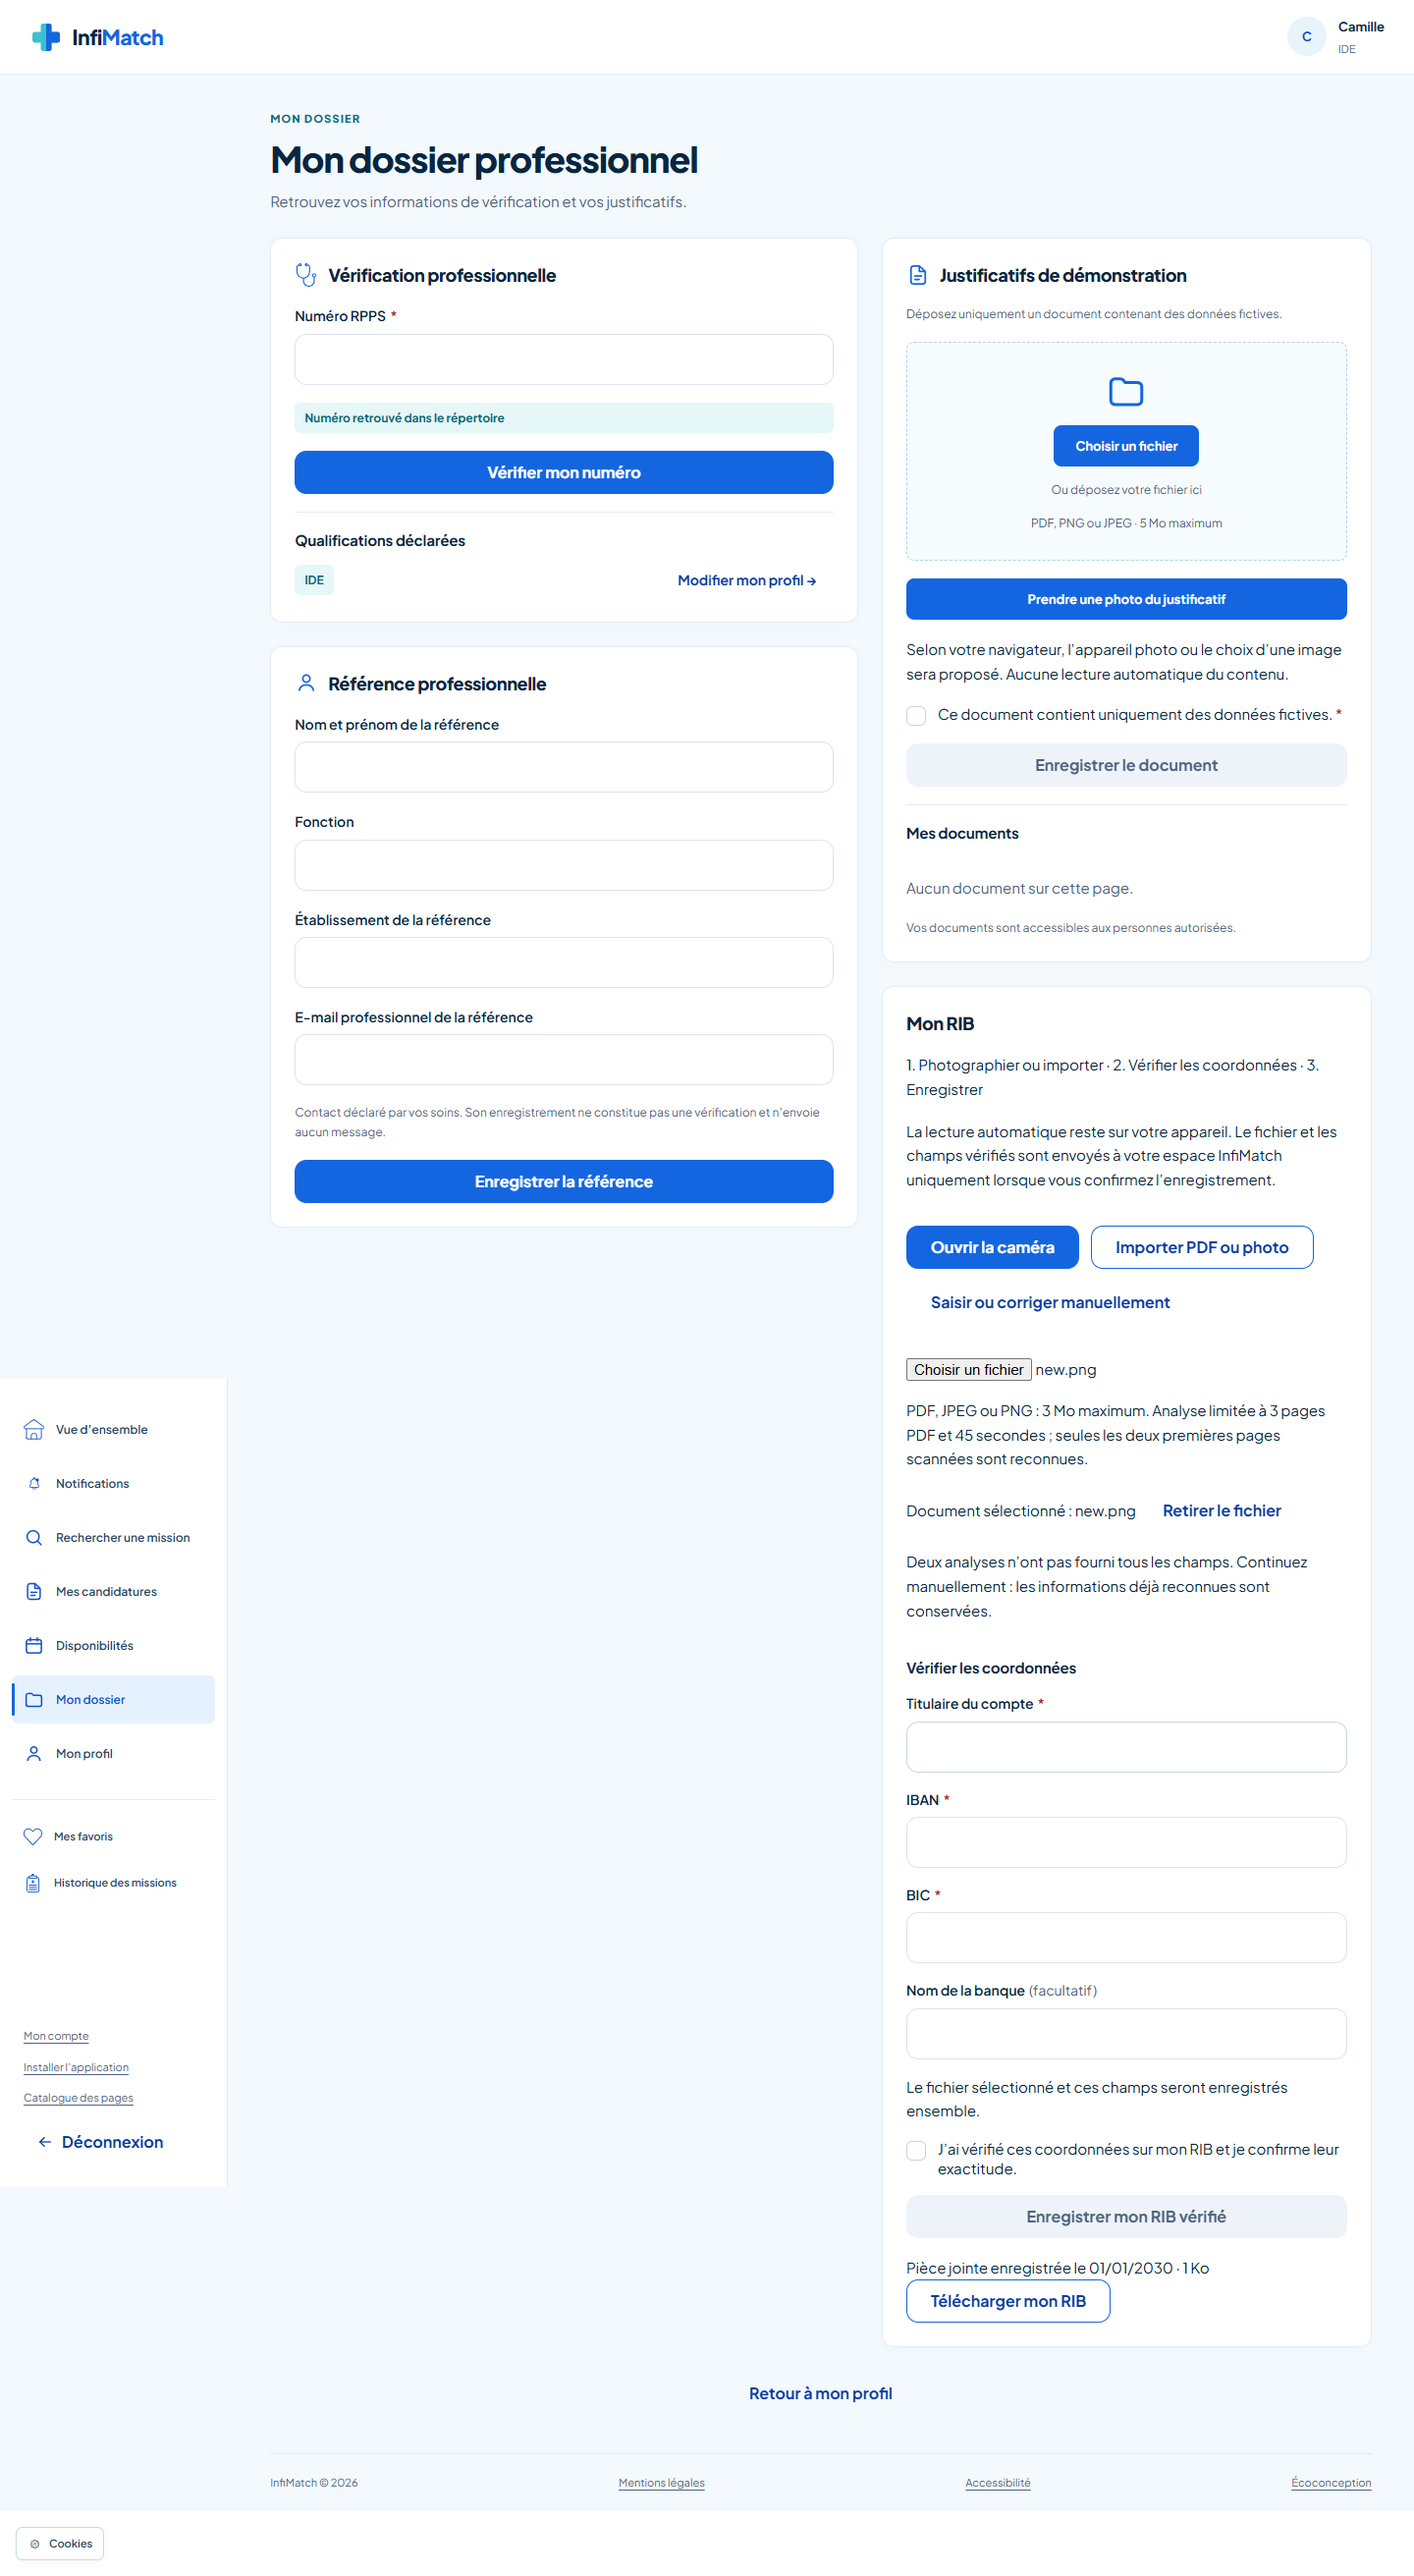
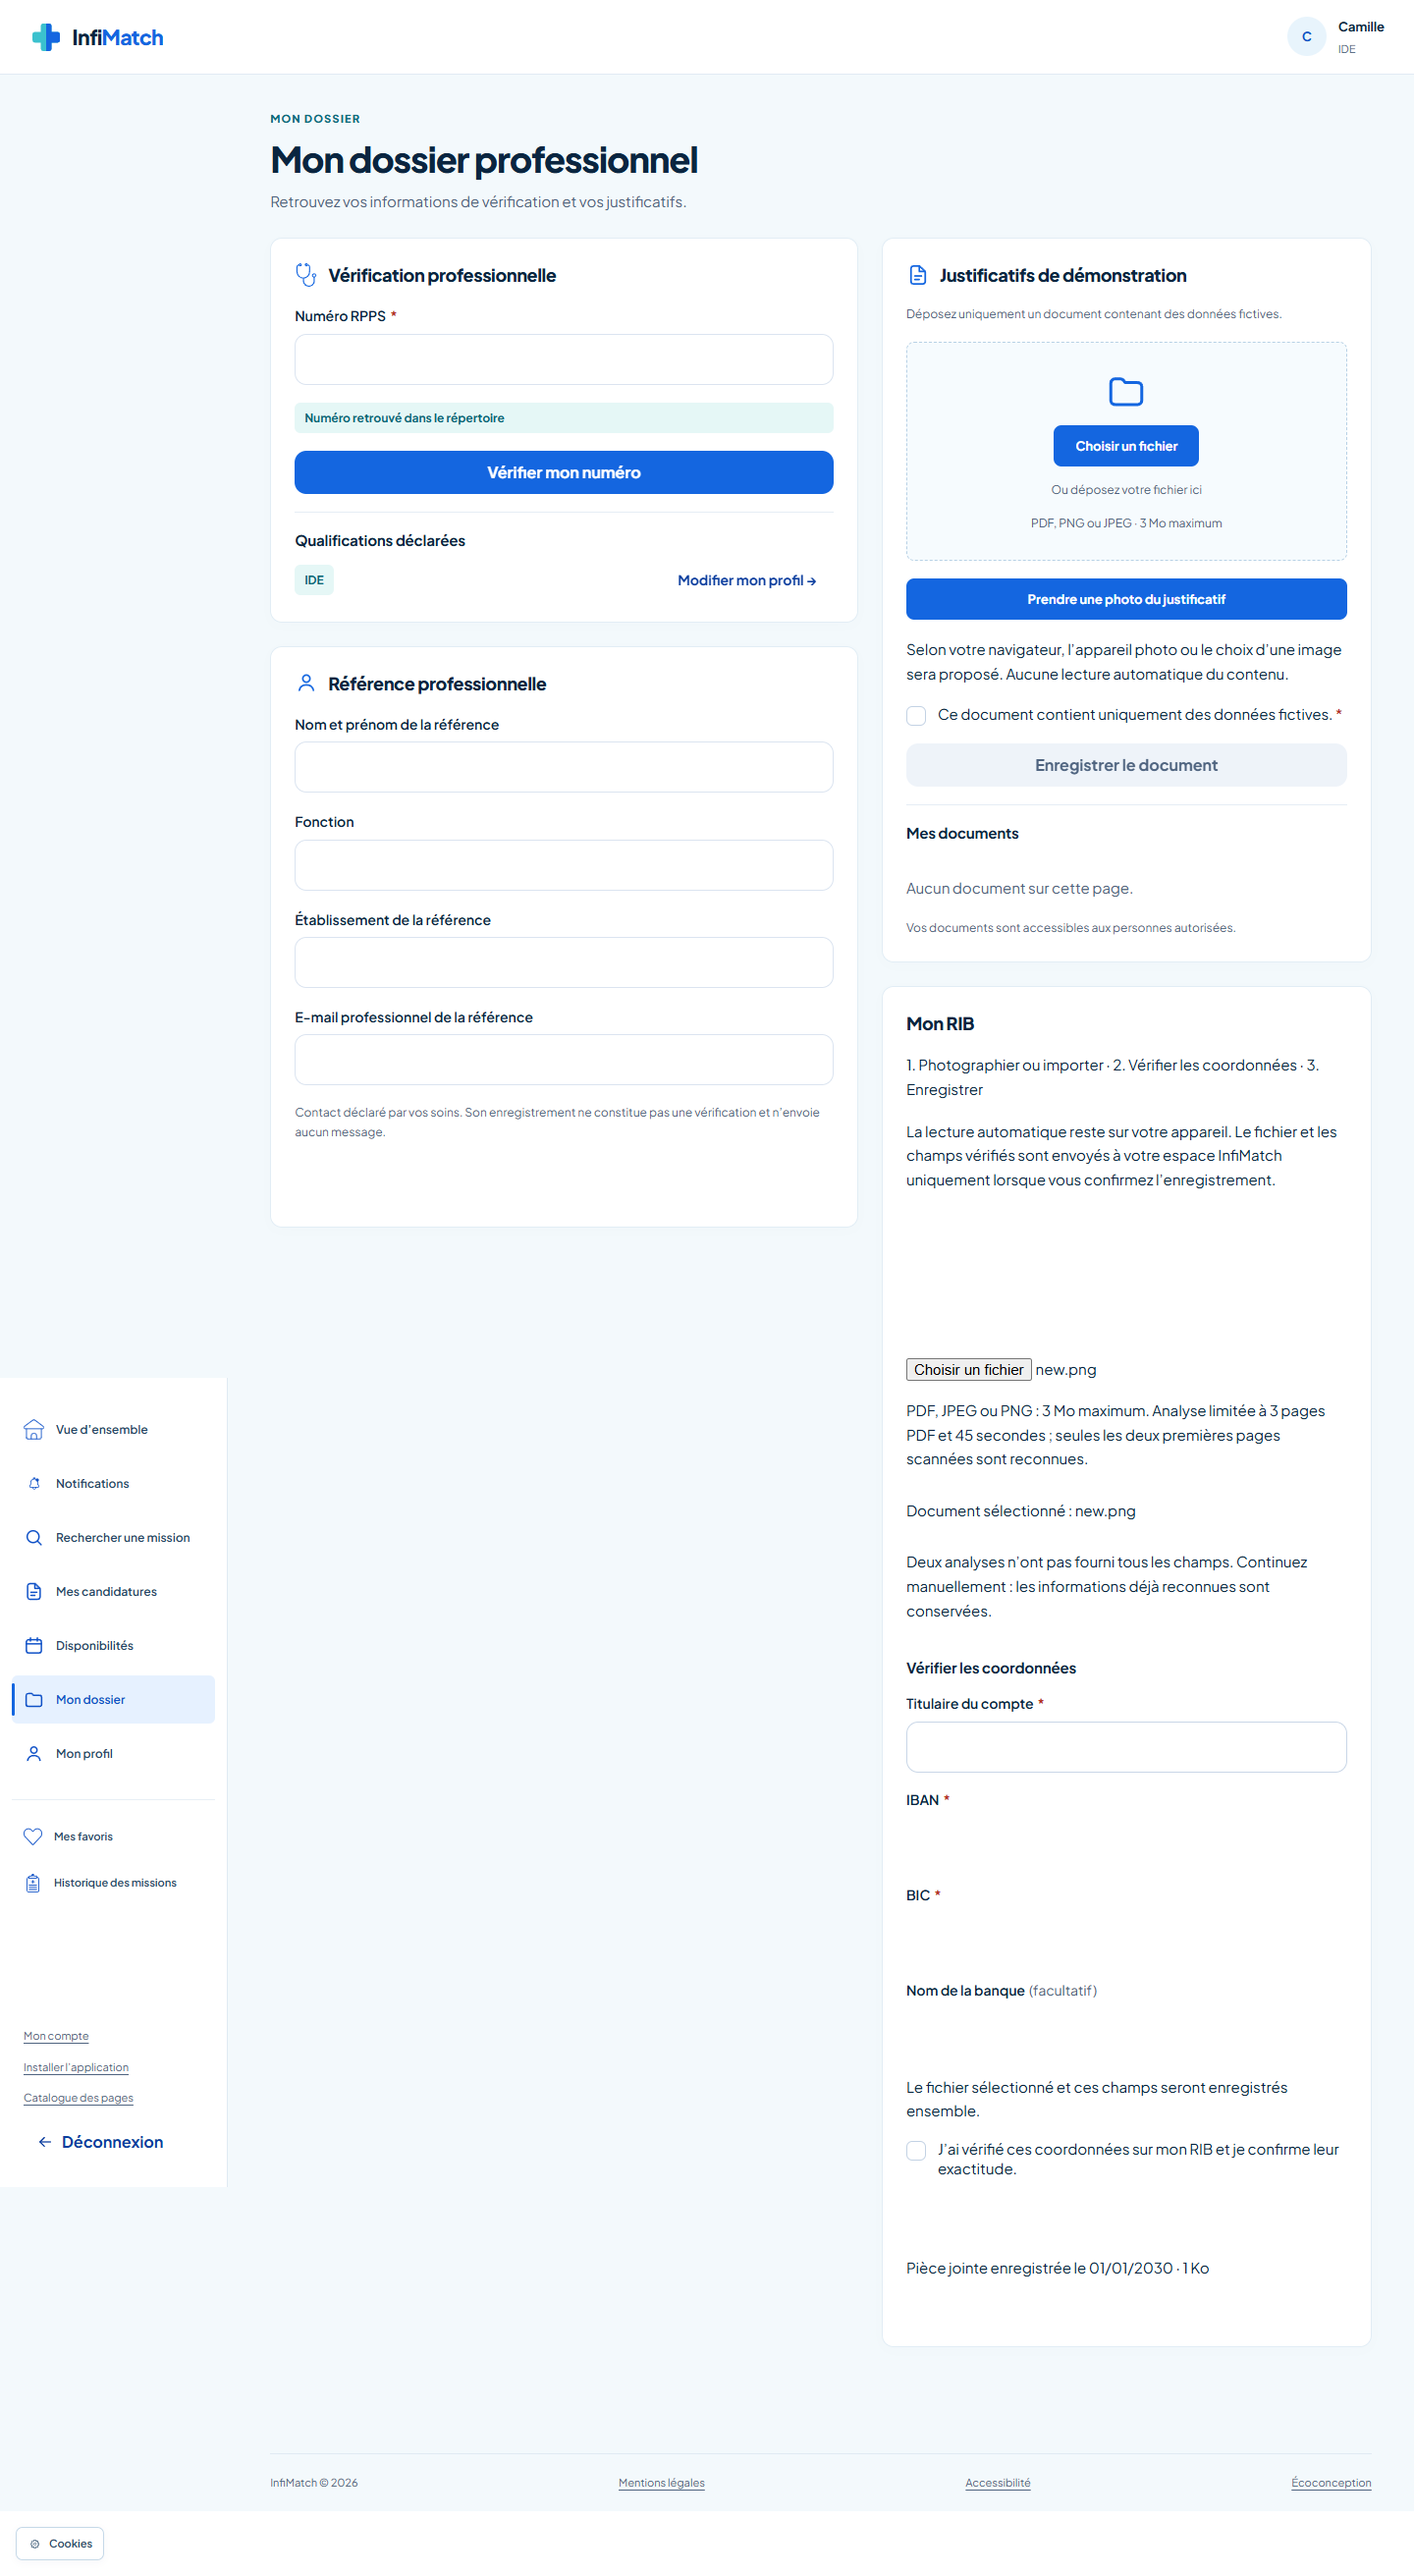
Record successful production RIB verification

Changed region(s): [[0.1875, 0.4323, 0.5938, 0.4941], [0.625, 0.4632, 0.7812, 0.4941], [0.75, 0.8338, 0.7812, 0.8647]]

diff --git a/docs/quality/RIB_CAMERA_ANALYSE_2026-09-17.md b/docs/quality/RIB_CAMERA_ANALYSE_2026-09-17.md
@@ -30,4 +30,6 @@ Ouvrir une camera reconnue sur PC ou la camera du telephone, importer un PDF/JPE
 L'OCR peut manquer des caracteres ou champs : verification manuelle obligatoire. BIC et titulaire manquants doivent etre completes, jamais inventes. Limites 3 MiB, 3 pages PDF, reconnaissance des deux premieres pages scannees, 45 secondes par analyse. Camera materielle de l'utilisateur non testee ; un telephone branche au PC doit etre reconnu comme webcam par le systeme. Les nouvelles saisies de RIB ne sont plus limitees aux donnees fictives ; les justificatifs generaux conservent leur regle existante.
 
 ## Publication
-Recette publique a effectuer apres deploiement de ce lot ; les validations ci-dessus portent sur la version locale construite pour production.
+Commit applicatif publie : 961a40b7e68426bef90465c161c3ee51fe80b56e. Frontend et backend Vercel READY.
+Recette du site public reussie : OCR image et PDF texte avec les vrais assets heberges, bascule manuelle apres deux echecs, relecture, absence de transmission externe pendant analyse et affichage mobile/desktop. Les API du test navigateur sont interceptees ; une recette serveur distincte a cree un compte synthetique en production, enregistre les champs et le fichier chiffres, verifie restitution et telechargement, puis supprime ce compte et ses documents.
+Protections CSRF et routes internes, session, profil, recherche independante, recommandations, accueil et configuration Discord egalement verifies. Aucun compte utilisateur existant modifie. Voir RECETTE_RIB_PRODUCTION_2026-09-17.json.
